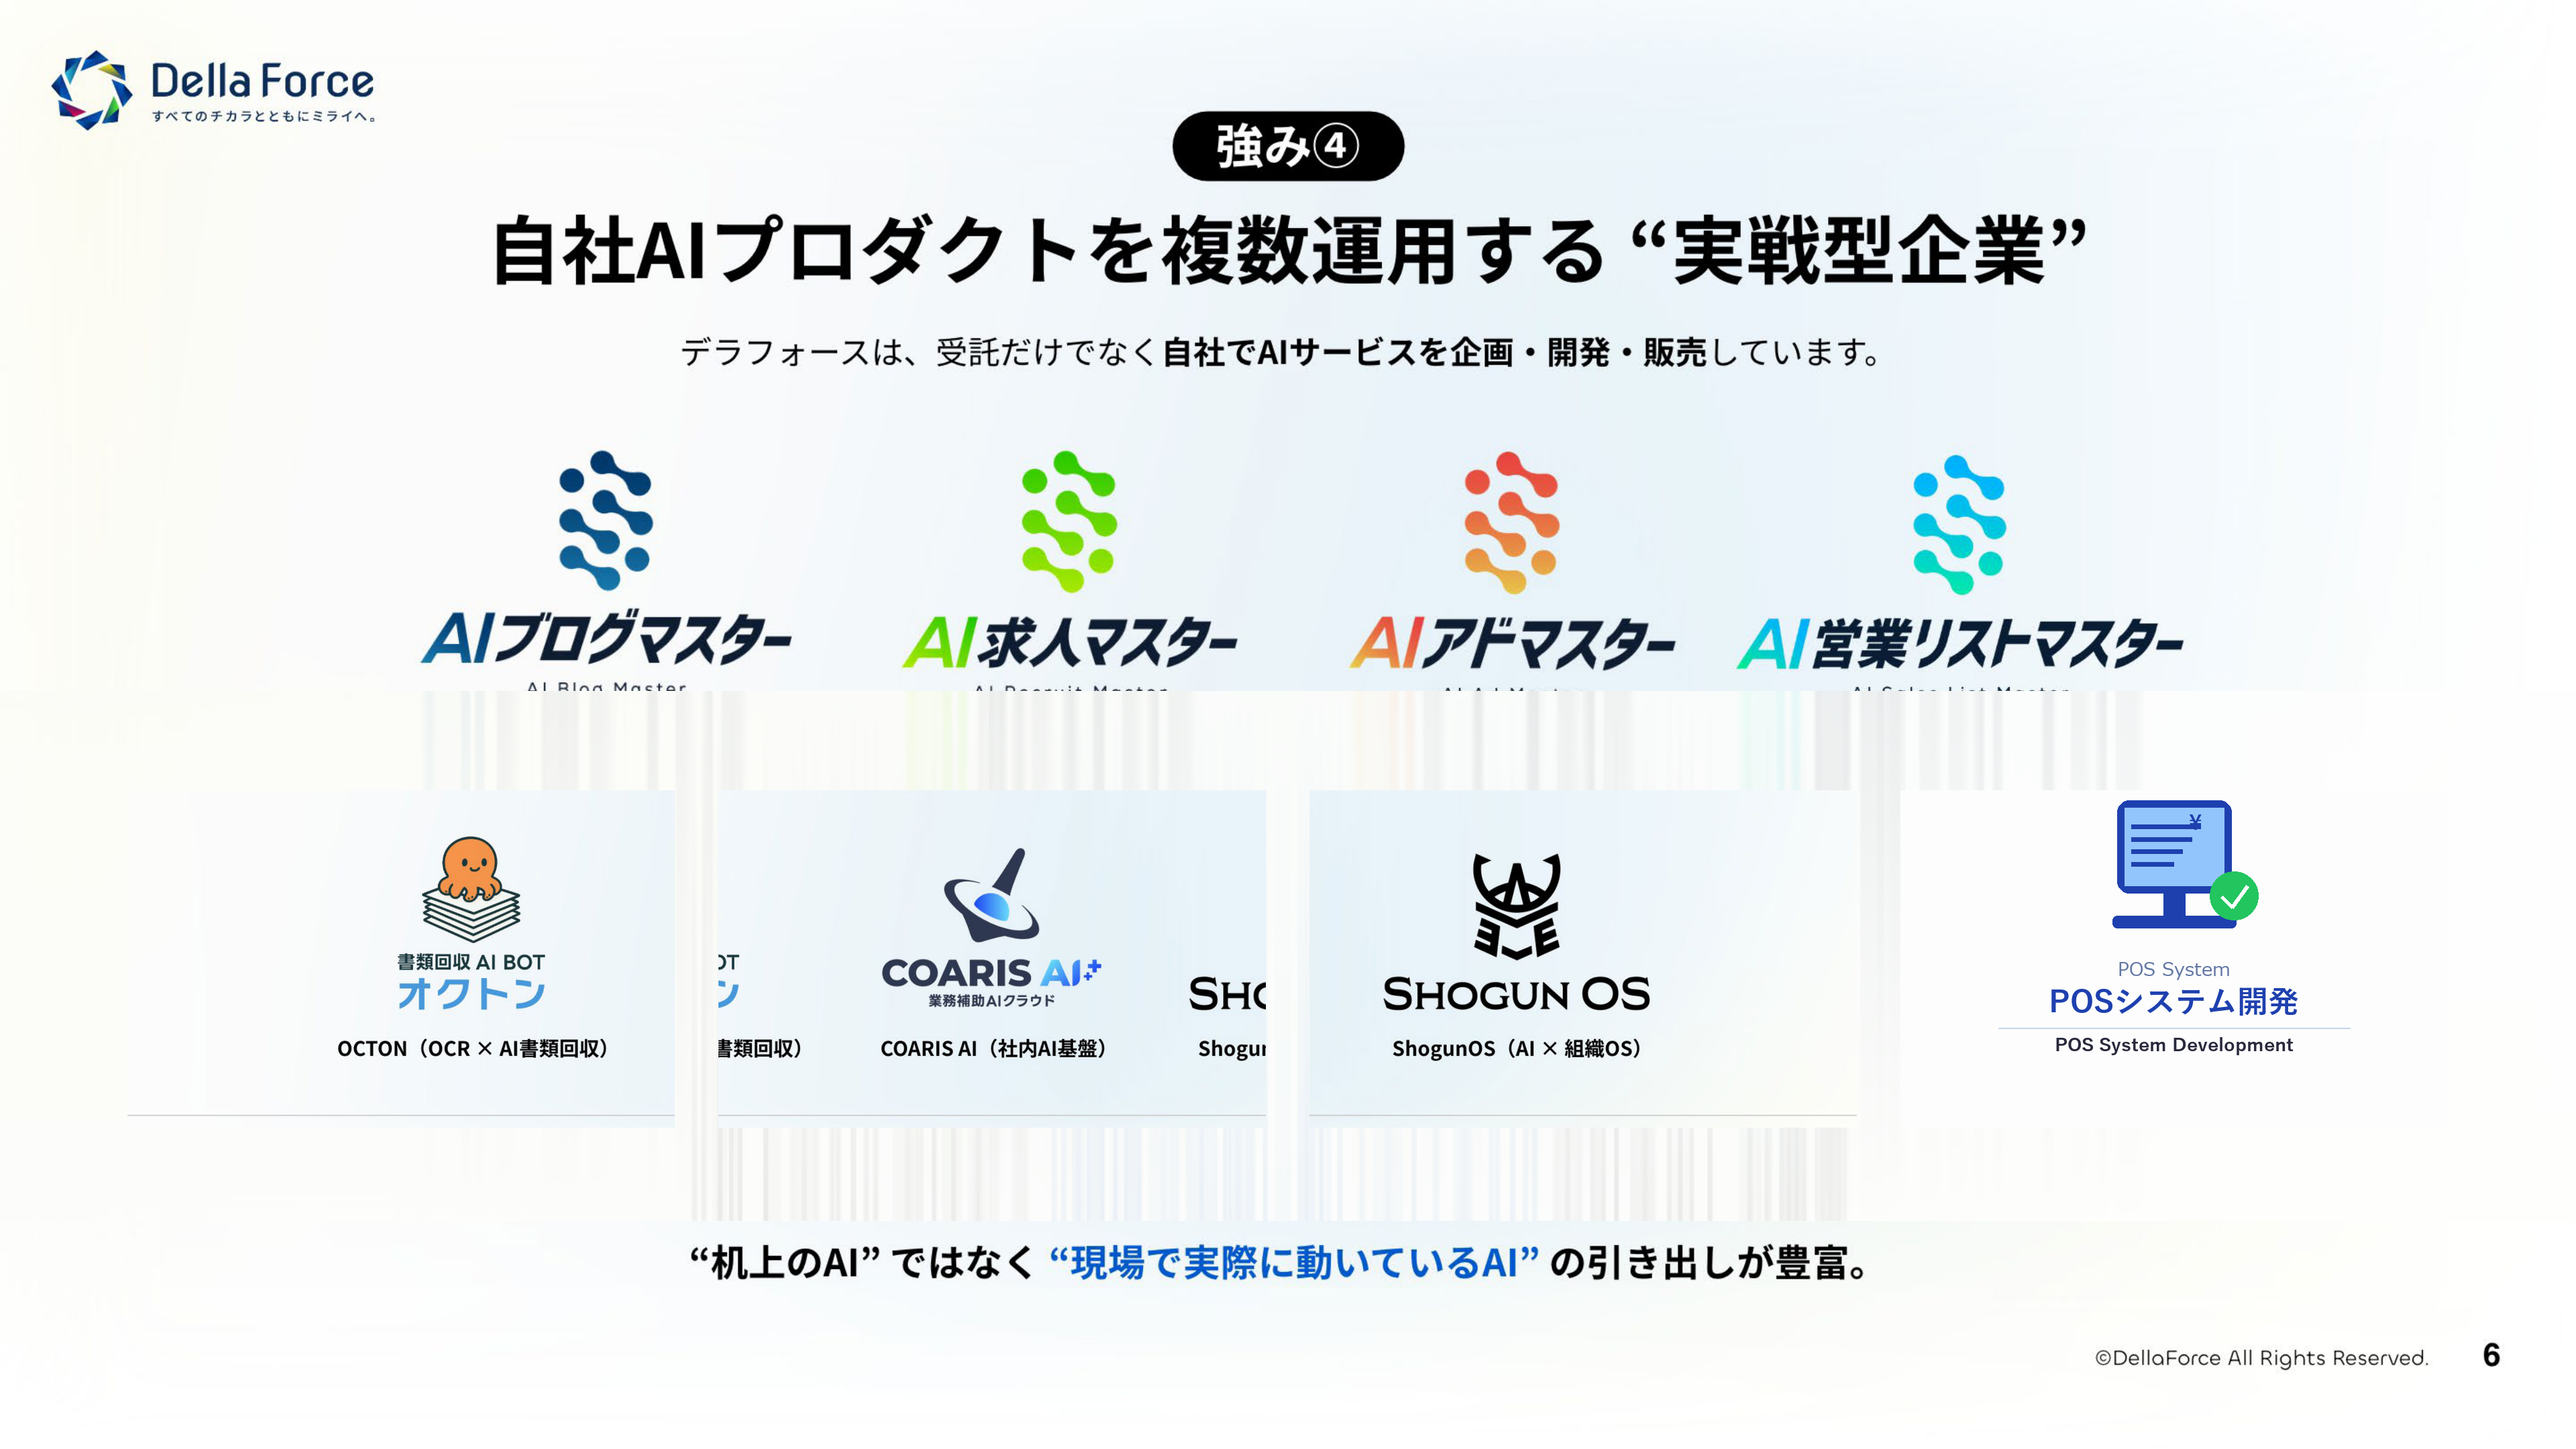
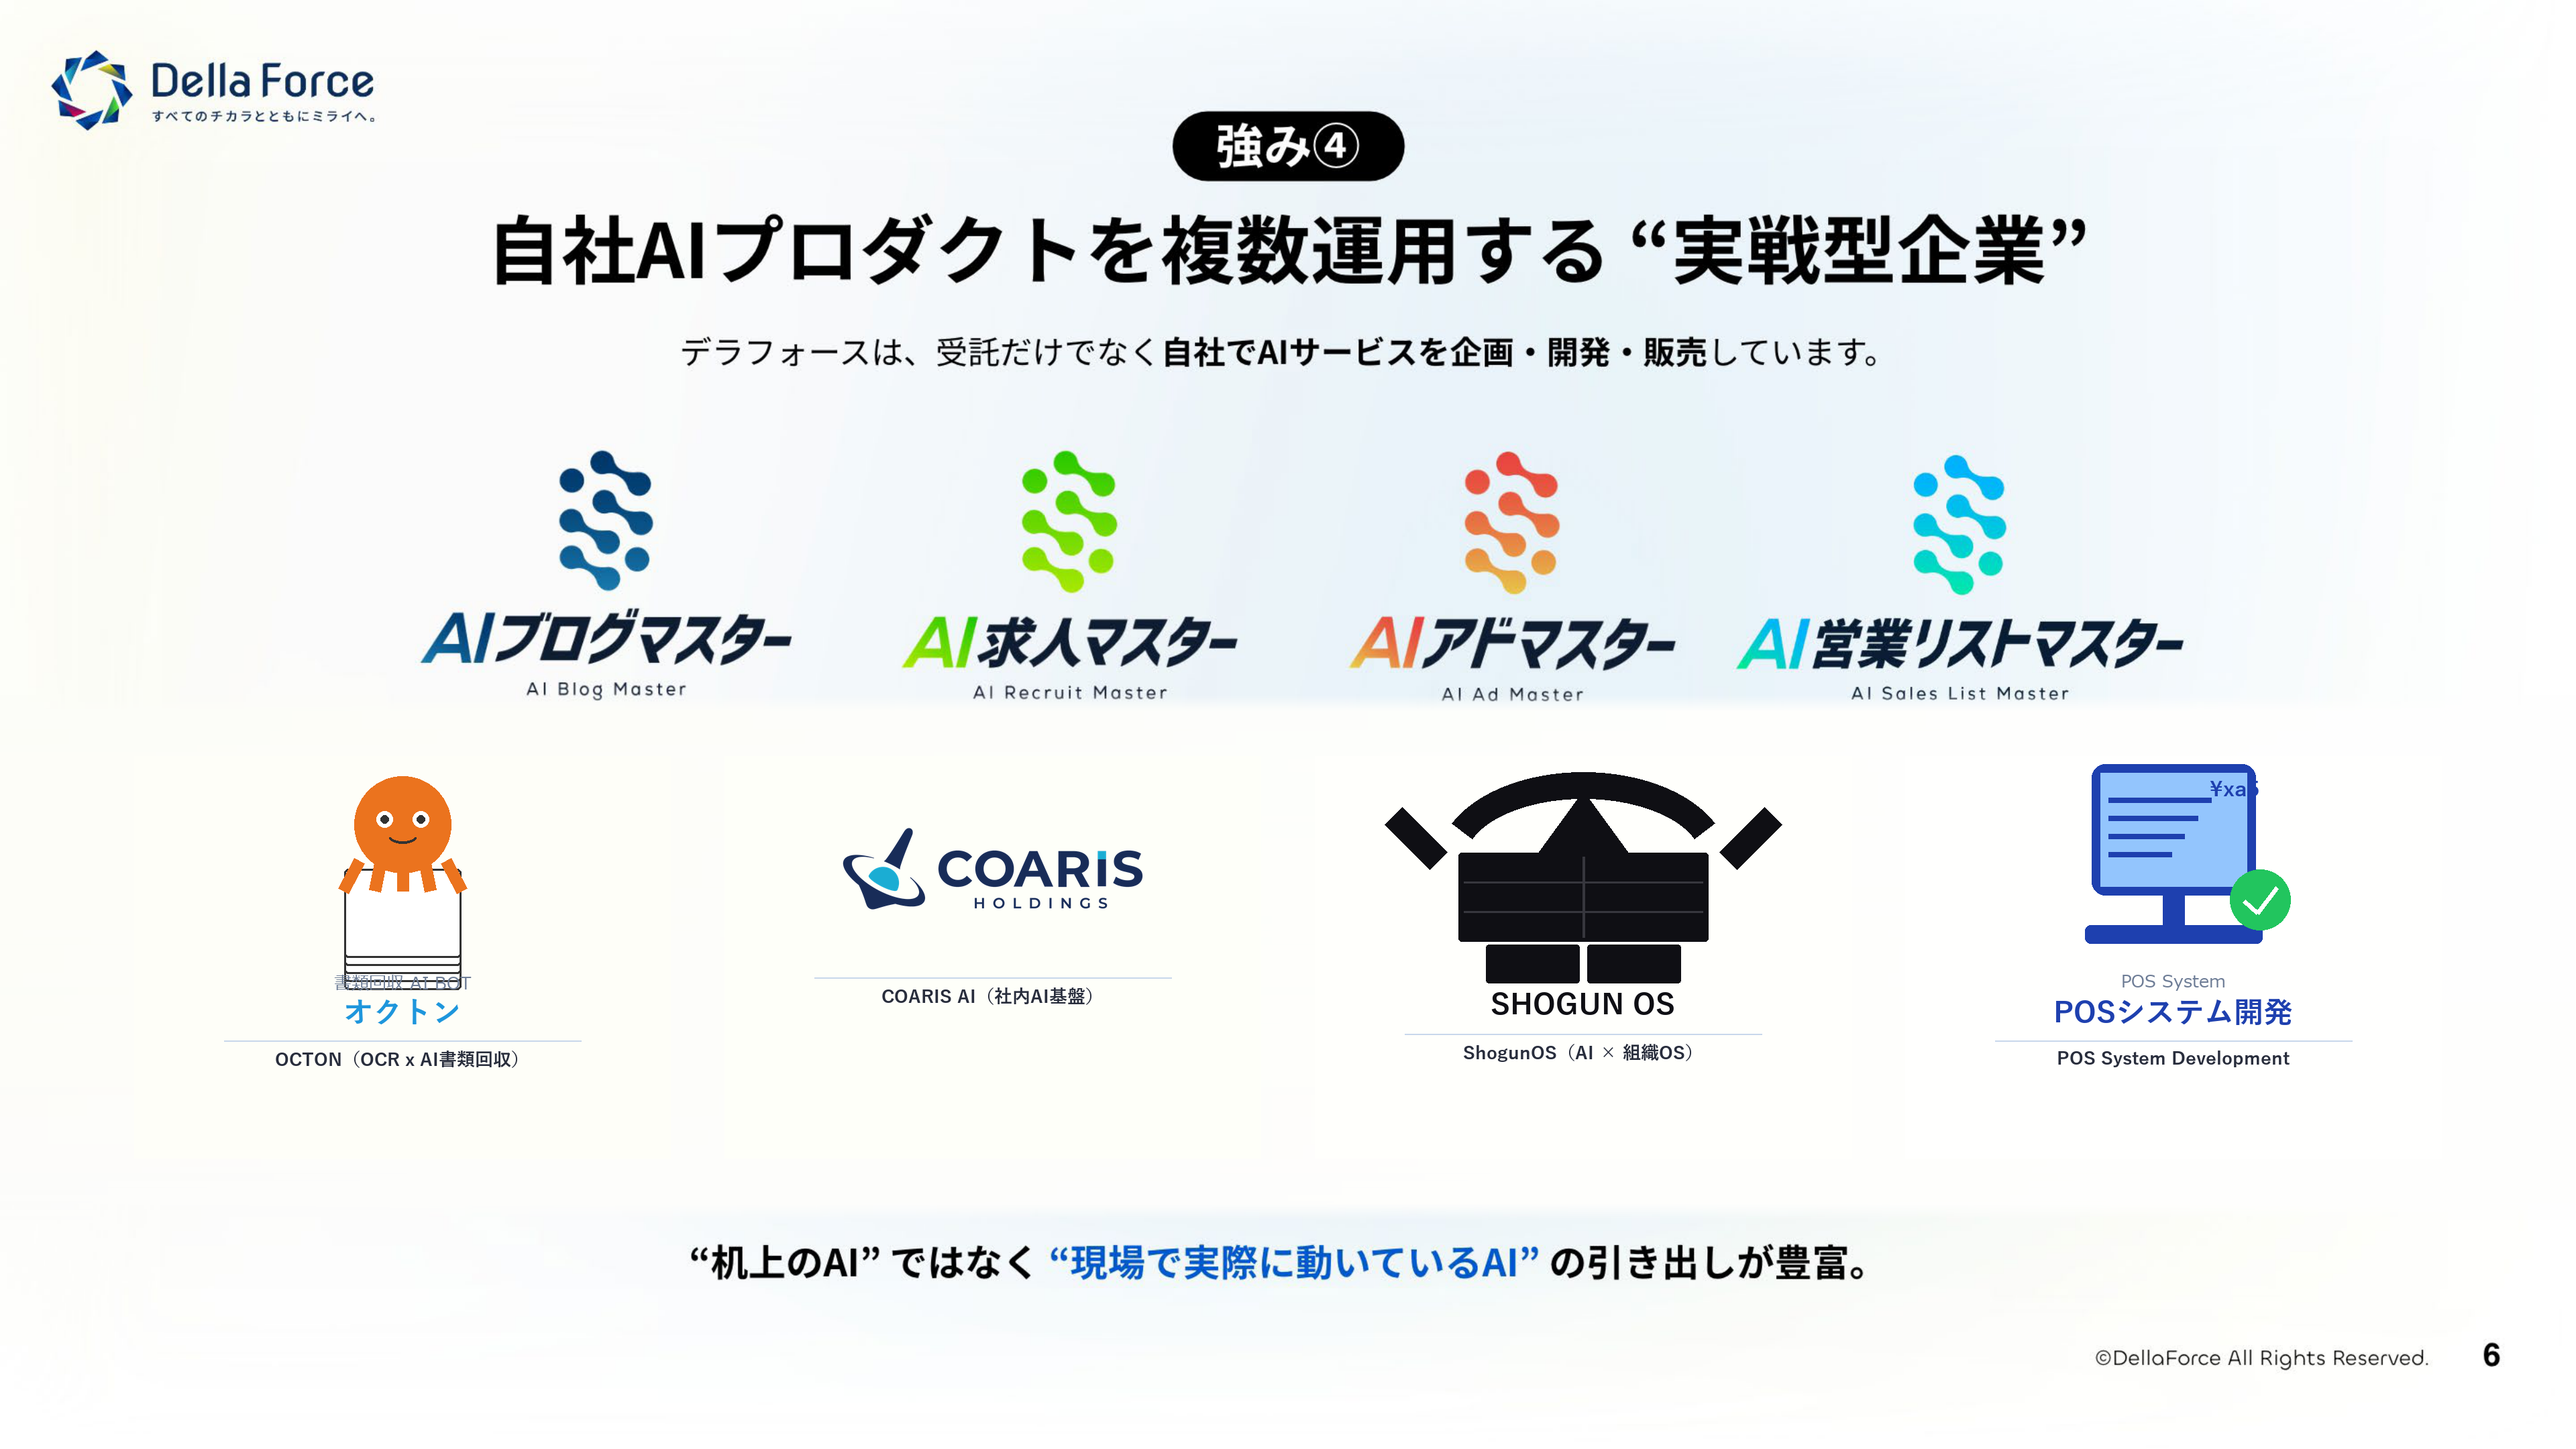
auto: update 2026-06-08 19:51:12

diff --git a/17【岩田さん用株式会社Della Force会社概要資料】/build_page6.py b/17【岩田さん用株式会社Della Force会社概要資料】/build_page6.py
@@ -112,14 +112,33 @@ def make_coaris():
     im = Image.new("RGB", (IW, IH), bg)
     d  = ImageDraw.Draw(im)
     cx = IW//2
-    coaris = Image.open(coaris_logo).convert("RGBA")
-    cw = int(IW * 0.80)
-    ch = int(coaris.height * cw / coaris.width)
-    cr = coaris.resize((cw, ch), Image.LANCZOS)
-    logo_top = int(IH * 0.06)
-    im.paste(cr, ((IW-cw)//2, logo_top), cr)
-    icon_bottom = logo_top + ch
-    sep_y = icon_bottom + 30
+
+    # ロゴ四角.pngのアイコン部分（上60%）だけ切り取って使う
+    coaris_sq = Image.open(r"C:\Users\shira_k13727w\OneDrive\DF\全体\COARIS\ロゴ四角.png").convert("RGBA")
+    # アイコン部分: 上65%を切り取り
+    icon_crop_h = int(coaris_sq.height * 0.60)
+    icon_only   = coaris_sq.crop((0, 0, coaris_sq.width, icon_crop_h))
+    iw = int(IW * 0.52)
+    ih = int(icon_only.height * iw / icon_only.width)
+    icon_r = icon_only.resize((iw, ih), Image.LANCZOS)
+    logo_top = int(IH * 0.04)
+    im.paste(icon_r, ((IW-iw)//2, logo_top), icon_r)
+    icon_bottom = logo_top + ih
+
+    # "COARIS AI+" テキスト（オリジナル資料に合わせて）
+    NAVY = (25, 40, 100)
+    CYAN = (0, 180, 220)
+    ty = icon_bottom + 8
+    d.text((cx, ty), "COARIS AI", font=FB(46), fill=NAVY, anchor="mt")
+    # "+" を右に cyan で追加
+    bbox = d.textbbox((0,0), "COARIS AI", font=FB(46))
+    txt_w = bbox[2] - bbox[0]
+    plus_x = cx + txt_w//2 + 4
+    d.text((plus_x, ty+4), "+", font=FB(36), fill=CYAN, anchor="lt")
+    # サブテキスト
+    d.text((cx, ty+54), "\u696d\u52d9\u88dc\u52a9AI\u30af\u30e9\u30a6\u30c9",
+           font=FME(24), fill=(80,90,110), anchor="mt")
+    sep_y = ty + 54 + 36
     d.line([(cx-IW//3, sep_y),(cx+IW//3, sep_y)], fill=(200,215,235), width=2)
     d.text((cx, sep_y+15), "COARIS AI\uff08\u793e\u5185AI\u57fa\u76e4\uff09",
            font=FB(27), fill=(40,45,60), anchor="mt")
